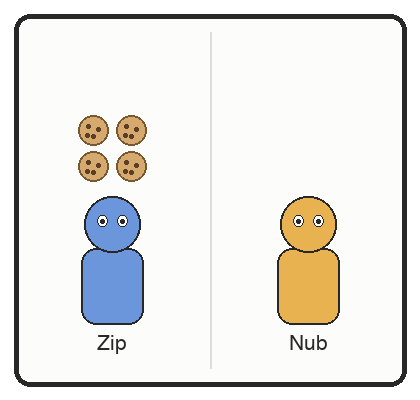
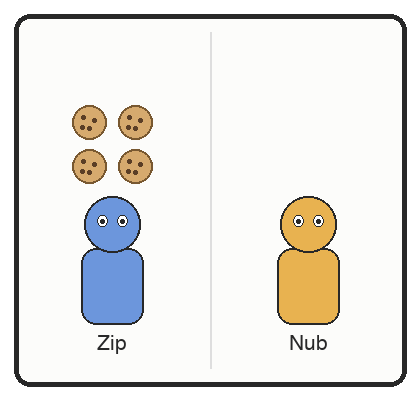
Normalise object sizes so sets stay countable
Elizabeth took the survey and chose the covered box on allVis, a trial
whose answer is supposed to be visible: "where Bix has all of the birds",
with neither box readable as showing that.

Birds drew about 90px wide against 38px grid spacing in the scalar panels,
so four of them overlapped into a single uncountable smear. Fish were nearly
as bad. Whether one character had all, some or none of the objects was not
recoverable from the picture, which makes the covered box a perfectly
reasonable answer to a trial that should have had a visible one.

Every object now draws inside roughly a 36px box at s = 1.0, with grid
spacing raised to 46 x 44. Number panels pass s = 1.7 so they stay legible
with only one to five objects in a large frame.

make-stimuli.py now also rewrites index.html as a contact sheet of every
image. Both stimulus bugs so far were invisible in the code and obvious at
a glance there.

Claude-Session: https://claude.ai/code/session_01W6W1Yt4uZhCBdA8GGktaX5

Changed region(s): [[0.1548, 0.24, 0.3714, 0.48]]

diff --git a/index.html b/index.html
@@ -3,68 +3,21 @@
 <meta name=viewport content="width=device-width,initial-scale=1">
 <title>Covered-box stimuli</title>
 <style>
- body{font:16px/1.5 -apple-system,BlinkMacSystemFont,"Segoe UI",sans-serif;
-      max-width:1100px;margin:2.5rem auto;padding:0 1.25rem;color:#1c1c1e}
- h1{font-size:1.6rem;margin-bottom:.2rem}
- p.sub{color:#555;margin-top:0}
- h2{font-size:1.05rem;margin:2rem 0 .6rem;color:#444;
-     border-bottom:1px solid #e3e3e6;padding-bottom:.3rem}
- .grid{display:grid;grid-template-columns:repeat(auto-fill,minmax(190px,1fr));
-        gap:1rem}
- figure{margin:0}
- img{width:100%;border:1px solid #d8d8dc;border-radius:8px;background:#fff}
- figcaption{font:12px ui-monospace,SFMono-Regular,Menlo,monospace;
-             color:#666;margin-top:.35rem;word-break:break-all}
- code{background:#f4f4f6;padding:.15rem .35rem;border-radius:4px;
-       font-size:.9em}
+ body{{font:16px/1.5 -apple-system,BlinkMacSystemFont,"Segoe UI",sans-serif;
+      max-width:1100px;margin:2.5rem auto;padding:0 1.25rem;color:#1c1c1e}}
+ h1{{font-size:1.6rem;margin-bottom:.2rem}}
+ p.sub{{color:#555;margin-top:0}}
+ h2{{font-size:1.05rem;margin:2rem 0 .6rem;color:#444;
+     border-bottom:1px solid #e3e3e6;padding-bottom:.3rem}}
+ .grid{{display:grid;grid-template-columns:repeat(auto-fill,minmax(190px,1fr));
+        gap:1rem}}
+ figure{{margin:0}}
+ img{{width:100%;border:1px solid #d8d8dc;border-radius:8px;background:#fff}}
+ figcaption{{font:12px ui-monospace,SFMono-Regular,Menlo,monospace;
+             color:#666;margin-top:.35rem;word-break:break-all}}
 </style>
 <h1>Covered-box stimuli</h1>
-<p class=sub>Huang, Spelke &amp; Snedeker (2013), Experiment 1 &mdash; a class
-replication. Every image is generated by <code>make-stimuli.py</code>; the
-characters and objects are original, so nothing here is anyone else's
-copyright.</p>
-<p>These are served for the Qualtrics survey, which references them as
-<code>&lt;img src="https://eecoppock.github.io/covered-box-replication/stimuli/&hellip;"&gt;</code>.
-Source: <a href="https://github.com/eecoppock/covered-box-replication">github.com/eecoppock/covered-box-replication</a></p>
-<h2>Familiarization</h2>
-<div class=grid>
-<figure><img src="stimuli/fam1_no.png" alt="fam1_no.png" loading="lazy"><figcaption>fam1_no</figcaption></figure>
-<figure><img src="stimuli/fam1_yes.png" alt="fam1_yes.png" loading="lazy"><figcaption>fam1_yes</figcaption></figure>
-<figure><img src="stimuli/fam2_no.png" alt="fam2_no.png" loading="lazy"><figcaption>fam2_no</figcaption></figure>
-<figure><img src="stimuli/fam2_yes.png" alt="fam2_yes.png" loading="lazy"><figcaption>fam2_yes</figcaption></figure>
-<figure><img src="stimuli/fam3_no_a.png" alt="fam3_no_a.png" loading="lazy"><figcaption>fam3_no_a</figcaption></figure>
-<figure><img src="stimuli/fam3_no_b.png" alt="fam3_no_b.png" loading="lazy"><figcaption>fam3_no_b</figcaption></figure>
-<figure><img src="stimuli/fam4_no.png" alt="fam4_no.png" loading="lazy"><figcaption>fam4_no</figcaption></figure>
-<figure><img src="stimuli/fam4_yes.png" alt="fam4_yes.png" loading="lazy"><figcaption>fam4_yes</figcaption></figure>
-</div>
-<h2>Covered box</h2>
-<div class=grid>
-<figure><img src="stimuli/covered.png" alt="covered.png" loading="lazy"><figcaption>covered</figcaption></figure>
-</div>
-<h2>Scalar condition</h2>
-<div class=grid>
-<figure><img src="stimuli/scalar_s1_ALL.png" alt="scalar_s1_ALL.png" loading="lazy"><figcaption>scalar_s1_ALL</figcaption></figure>
-<figure><img src="stimuli/scalar_s1_NONE.png" alt="scalar_s1_NONE.png" loading="lazy"><figcaption>scalar_s1_NONE</figcaption></figure>
-<figure><img src="stimuli/scalar_s1_SOME.png" alt="scalar_s1_SOME.png" loading="lazy"><figcaption>scalar_s1_SOME</figcaption></figure>
-<figure><img src="stimuli/scalar_s2_ALL.png" alt="scalar_s2_ALL.png" loading="lazy"><figcaption>scalar_s2_ALL</figcaption></figure>
-<figure><img src="stimuli/scalar_s2_NONE.png" alt="scalar_s2_NONE.png" loading="lazy"><figcaption>scalar_s2_NONE</figcaption></figure>
-<figure><img src="stimuli/scalar_s2_SOME.png" alt="scalar_s2_SOME.png" loading="lazy"><figcaption>scalar_s2_SOME</figcaption></figure>
-<figure><img src="stimuli/scalar_s3_ALL.png" alt="scalar_s3_ALL.png" loading="lazy"><figcaption>scalar_s3_ALL</figcaption></figure>
-<figure><img src="stimuli/scalar_s3_NONE.png" alt="scalar_s3_NONE.png" loading="lazy"><figcaption>scalar_s3_NONE</figcaption></figure>
-<figure><img src="stimuli/scalar_s3_SOME.png" alt="scalar_s3_SOME.png" loading="lazy"><figcaption>scalar_s3_SOME</figcaption></figure>
-</div>
-<h2>Number condition</h2>
-<div class=grid>
-<figure><img src="stimuli/number_s1_1.png" alt="number_s1_1.png" loading="lazy"><figcaption>number_s1_1</figcaption></figure>
-<figure><img src="stimuli/number_s1_2.png" alt="number_s1_2.png" loading="lazy"><figcaption>number_s1_2</figcaption></figure>
-<figure><img src="stimuli/number_s1_3.png" alt="number_s1_3.png" loading="lazy"><figcaption>number_s1_3</figcaption></figure>
-<figure><img src="stimuli/number_s1_5.png" alt="number_s1_5.png" loading="lazy"><figcaption>number_s1_5</figcaption></figure>
-<figure><img src="stimuli/number_s2_1.png" alt="number_s2_1.png" loading="lazy"><figcaption>number_s2_1</figcaption></figure>
-<figure><img src="stimuli/number_s2_2.png" alt="number_s2_2.png" loading="lazy"><figcaption>number_s2_2</figcaption></figure>
-<figure><img src="stimuli/number_s2_3.png" alt="number_s2_3.png" loading="lazy"><figcaption>number_s2_3</figcaption></figure>
-<figure><img src="stimuli/number_s2_5.png" alt="number_s2_5.png" loading="lazy"><figcaption>number_s2_5</figcaption></figure>
-<figure><img src="stimuli/number_s3_1.png" alt="number_s3_1.png" loading="lazy"><figcaption>number_s3_1</figcaption></figure>
-<figure><img src="stimuli/number_s3_2.png" alt="number_s3_2.png" loading="lazy"><figcaption>number_s3_2</figcaption></figure>
-<figure><img src="stimuli/number_s3_3.png" alt="number_s3_3.png" loading="lazy"><figcaption>number_s3_3</figcaption></figure>
-<figure><img src="stimuli/number_s3_5.png" alt="number_s3_5.png" loading="lazy"><figcaption>number_s3_5</figcaption></figure>
-</div>
+<p class=sub>Huang, Spelke &amp; Snedeker (2013) Exp. 1 &mdash; a class replication.
+Generated by <code>make-stimuli.py</code>; characters and objects are original.
+<a href="https://github.com/eecoppock/covered-box-replication">Source</a>.</p>
+{cards}

diff --git a/make-stimuli.py b/make-stimuli.py
@@ -44,46 +44,54 @@ def blank(covered=False):
     return img, d
 
 # ------------------------------------------------------------------ objects
-def cookie(d,x,y,r=15):
+# Every object draws inside roughly a 36 x 36 box at s = 1.0. That matters: the
+# scalar panels lay objects out on a grid, and an object wider than the grid
+# spacing turns a countable set into an uncountable smear. Birds were ~90px wide
+# against 38px spacing, which made "Bix has all of the birds" unreadable and the
+# covered box a reasonable answer to a trial that should have had a visible one.
+def cookie(d,x,y,s=1.0):
+    r=int(17*s)
     d.ellipse([x-r,y-r,x+r,y+r], fill=(214,170,110), outline=(120,88,48), width=2)
-    for dx,dy in ((-5,-4),(5,-1),(0,6),(-6,5)):
-        d.ellipse([x+dx-2,y+dy-2,x+dx+2,y+dy+2], fill=(90,62,38))
+    for dx,dy in ((-.32,-.26),(.32,-.06),(0,.38),(-.38,.32)):
+        d.ellipse([x+dx*r-2,y+dy*r-2,x+dx*r+2,y+dy*r+2], fill=(90,62,38))
 
-def apple(d,x,y,r=15):
+def apple(d,x,y,s=1.0):
+    r=int(16*s)
     d.ellipse([x-r,y-r+2,x+r,y+r+2], fill=(206,64,58), outline=(120,32,30), width=2)
-    d.line([x,y-r,x+2,y-r-9], fill=(96,62,32), width=3)
-    d.ellipse([x+2,y-r-12,x+13,y-r-3], fill=(96,158,74), outline=(52,100,44))
+    d.line([x,y-r,x+2,y-r-int(8*s)], fill=(96,62,32), width=3)
+    d.ellipse([x+2,y-r-int(11*s),x+int(12*s),y-r-int(3*s)],
+              fill=(96,158,74), outline=(52,100,44))
 
-def balloon(d,x,y,r=15):
-    d.ellipse([x-r,y-r-3,x+r,y+r+1], fill=(158,104,196), outline=(96,58,128), width=2)
-    d.polygon([(x-4,y+r-1),(x+4,y+r-1),(x,y+r+6)], fill=(96,58,128))
-    d.line([x,y+r+5,x+4,y+r+18], fill=(90,90,90), width=2)
+def balloon(d,x,y,s=1.0):
+    r=int(15*s)
+    d.ellipse([x-r,y-r-3,x+r,y+r-1], fill=(158,104,196), outline=(96,58,128), width=2)
+    d.polygon([(x-4,y+r-2),(x+4,y+r-2),(x,y+r+5)], fill=(96,58,128))
+    d.line([x,y+r+4,x+3,y+r+int(13*s)], fill=(90,90,90), width=2)
 
 def fish(d,x,y,s=1.0):
-    bw,bh=int(30*s),int(18*s)
+    bw,bh=int(13*s),int(9*s)
     d.ellipse([x-bw,y-bh,x+bw,y+bh], fill=(92,160,214), outline=EDGE, width=2)
-    d.polygon([(x+bw-2,y),(x+bw+16*s,y-12*s),(x+bw+16*s,y+12*s)],
+    d.polygon([(x+bw-1,y),(x+bw+int(7*s),y-int(7*s)),(x+bw+int(7*s),y+int(7*s))],
               fill=(92,160,214), outline=EDGE)
-    d.ellipse([x-bw+8,y-6,x-bw+15,y+1], fill=(255,255,255), outline=EDGE)
+    d.ellipse([x-bw+4,y-3,x-bw+8,y+1], fill=(255,255,255), outline=EDGE)
 
 def bird(d,x,y,s=1.0):
-    bw,bh=int(26*s),int(17*s)
-    d.ellipse([x-bw,y-bh,x+bw,y+bh], fill=(230,168,60), outline=EDGE, width=2)
-    hr=int(13*s)
-    d.ellipse([x+bw-6,y-bh-hr+2,x+bw+2*hr-6,y-bh+hr+2], fill=(230,168,60),
-              outline=EDGE, width=2)
-    d.polygon([(x+bw+2*hr-8,y-bh+2),(x+bw+2*hr+9,y-bh+5),(x+bw+2*hr-8,y-bh+9)],
+    bw,bh=int(11*s),int(8*s)
+    d.ellipse([x-bw,y-bh+2,x+bw,y+bh+2], fill=(230,168,60), outline=EDGE, width=2)
+    hr=int(6*s)
+    d.ellipse([x+bw-hr,y-bh-hr,x+bw+hr,y-bh+hr], fill=(230,168,60), outline=EDGE, width=2)
+    d.polygon([(x+bw+hr-1,y-bh-1),(x+bw+hr+int(6*s),y-bh+1),(x+bw+hr-1,y-bh+4)],
               fill=(214,96,40), outline=EDGE)
-    d.ellipse([x+bw+hr-8,y-bh-4,x+bw+hr-3,y-bh+1], fill=EDGE)
-    d.arc([x-bw+6,y-10,x+bw-6,y+16], 200, 340, fill=EDGE, width=2)
 
 def flower(d,x,y,s=1.0):
-    r=int(11*s)
+    import math
+    r=int(8*s)
     for a in range(5):
-        import math
-        ang=math.radians(a*72-90); px,py=x+math.cos(ang)*15*s, y+math.sin(ang)*15*s
+        ang=math.radians(a*72-90)
+        px,py=x+math.cos(ang)*10*s, y+math.sin(ang)*10*s
         d.ellipse([px-r,py-r,px+r,py+r], fill=(226,110,150), outline=(150,60,96), width=2)
-    d.ellipse([x-8,y-8,x+8,y+8], fill=(244,206,74), outline=(150,110,30), width=2)
+    rr=int(6*s)
+    d.ellipse([x-rr,y-rr,x+rr,y+rr], fill=(244,206,74), outline=(150,110,30), width=2)
 
 def star(d,x,y,s=1.0):
     import math
@@ -94,16 +102,17 @@ def star(d,x,y,s=1.0):
     d.polygon(pts, fill=(244,196,58), outline=(150,116,20))
 
 def heart(d,x,y,s=1.0):
-    r=int(9*s)
-    d.ellipse([x-2*r,y-r-2,x,y+r-2], fill=(216,74,102), outline=(140,40,62))
-    d.ellipse([x,y-r-2,x+2*r,y+r-2], fill=(216,74,102), outline=(140,40,62))
-    d.polygon([(x-2*r+1,y+1),(x+2*r-1,y+1),(x,y+int(18*s))],
+    r=int(8*s)
+    d.ellipse([x-2*r,y-r-3,x,y+r-3], fill=(216,74,102), outline=(140,40,62))
+    d.ellipse([x,y-r-3,x+2*r,y+r-3], fill=(216,74,102), outline=(140,40,62))
+    d.polygon([(x-2*r+1,y-1),(x+2*r-1,y-1),(x,y+int(15*s))],
               fill=(216,74,102), outline=(140,40,62))
 
 def leaf(d,x,y,s=1.0):
-    d.polygon([(x,y-int(17*s)),(x+int(13*s),y),(x,y+int(17*s)),(x-int(13*s),y)],
+    h,w=int(17*s),int(11*s)
+    d.polygon([(x,y-h),(x+w,y),(x,y+h),(x-w,y)],
               fill=(104,166,86), outline=(56,104,50))
-    d.line([x,y-int(15*s),x,y+int(15*s)], fill=(56,104,50), width=2)
+    d.line([x,y-h+2,x,y+h-2], fill=(56,104,50), width=2)
 
 def shape_star(d,x,y,col=(214,60,60),s=1.0):
     import math
@@ -143,9 +152,10 @@ def cluster(d,cx,top,n,draw):
     if n==0: return
     cols=2 if n>1 else 1
     rows=(n+cols-1)//cols
+    SX, SY = 46, 44          # > the 36px object footprint, so sets stay countable
     for i in range(n):
         r,c=divmod(i,cols)
-        draw(d, int(cx+(c-(cols-1)/2)*38), int(top-(rows-1-r)*36))
+        draw(d, int(cx+(c-(cols-1)/2)*SX), int(top-(rows-1-r)*SY))
 
 def scalar_box(n_target, n_other, obj, names, total=4):
     img,d = blank()
@@ -160,9 +170,9 @@ def scalar_box(n_target, n_other, obj, names, total=4):
 def number_box(n, obj):
     img,d = blank()
     cx,cy = BOX_W//2, BOX_H//2
-    pos={1:[(0,0)],2:[(-72,0),(72,0)],3:[(-78,-56),(78,-56),(0,58)],
-         5:[(-92,-64),(92,-64),(0,0),(-92,64),(92,64)]}[n]
-    for dx,dy in pos: obj(d, cx+dx, cy+dy)
+    pos={1:[(0,0)],2:[(-70,0),(70,0)],3:[(-76,-58),(76,-58),(0,58)],
+         5:[(-92,-68),(92,-68),(0,0),(-92,68),(92,68)]}[n]
+    for dx,dy in pos: obj(d, cx+dx, cy+dy, 1.7)
     return img
 
 def familiar_box(shapes):
@@ -203,3 +213,45 @@ if __name__ == "__main__":
     for name, shapes in design.FAM_SHAPES.items():
         familiar_box([SH[x] for x in shapes]).save(f"{OUT}/{name}.png"); n+=1
     print(f"wrote {n} box images to {OUT}/")
+
+    # Regenerate the contact sheet. Every stimulus bug so far -- birds smeared
+    # into an uncountable pile, flowers standing in for leaves -- would have been
+    # obvious in one glance at this page, and invisible in the code.
+    import html as _html
+    files = sorted(f for f in os.listdir(OUT) if f.endswith(".png"))
+    groups = {"Familiarization": [f for f in files if f.startswith("fam")],
+              "Covered box":     [f for f in files if f == "covered.png"],
+              "Scalar panels":   [f for f in files if f.startswith("scalar")],
+              "Number panels":   [f for f in files if f.startswith("number")]}
+    cards = ""
+    for name, fs in groups.items():
+        if not fs: continue
+        cards += f"<h2>{_html.escape(name)}</h2>\n<div class=grid>\n"
+        for f in fs:
+            cards += (f'<figure><img src="{OUT}/{f}" alt="{f}" loading="lazy">'
+                      f'<figcaption>{f[:-4]}</figcaption></figure>\n')
+        cards += "</div>\n"
+    open("index.html","w").write(f"""<!doctype html>
+<html lang=en><meta charset=utf-8>
+<meta name=viewport content="width=device-width,initial-scale=1">
+<title>Covered-box stimuli</title>
+<style>
+ body{{{{font:16px/1.5 -apple-system,BlinkMacSystemFont,"Segoe UI",sans-serif;
+      max-width:1100px;margin:2.5rem auto;padding:0 1.25rem;color:#1c1c1e}}}}
+ h1{{{{font-size:1.6rem;margin-bottom:.2rem}}}}
+ p.sub{{{{color:#555;margin-top:0}}}}
+ h2{{{{font-size:1.05rem;margin:2rem 0 .6rem;color:#444;
+     border-bottom:1px solid #e3e3e6;padding-bottom:.3rem}}}}
+ .grid{{{{display:grid;grid-template-columns:repeat(auto-fill,minmax(190px,1fr));
+        gap:1rem}}}}
+ figure{{{{margin:0}}}}
+ img{{{{width:100%;border:1px solid #d8d8dc;border-radius:8px;background:#fff}}}}
+ figcaption{{{{font:12px ui-monospace,SFMono-Regular,Menlo,monospace;
+             color:#666;margin-top:.35rem;word-break:break-all}}}}
+</style>
+<h1>Covered-box stimuli</h1>
+<p class=sub>Huang, Spelke &amp; Snedeker (2013) Exp. 1 &mdash; a class replication.
+Generated by <code>make-stimuli.py</code>; characters and objects are original.
+<a href="https://github.com/eecoppock/covered-box-replication">Source</a>.</p>
+{{cards}}""")
+    print("wrote index.html contact sheet")

diff --git a/README.md b/README.md
@@ -42,6 +42,14 @@ of meaning, in a population that computes scalar implicatures robustly elsewhere
 Everything is generated. Change the constants at the top of `make-stimuli.py`
 (counts, colours, names) and rerun; nothing is hand-drawn.
 
+**Look at `index.html` after every regeneration.** `make-stimuli.py` rewrites it
+as a contact sheet of every image. Both stimulus bugs found so far — birds drawn
+~90px wide against 38px grid spacing, so four of them smeared into an
+uncountable pile and *Bix has all of the birds* had no readable answer; and a
+probe naming leaves against boxes of flowers — were invisible in the code and
+obvious in one glance at that page. Objects are now normalised to a ~36px
+footprint against 46px spacing, but the check is cheaper than the reasoning.
+
 ## Getting the images into Qualtrics
 
 Each trial is a multiple-choice question whose three **answer choices are the
